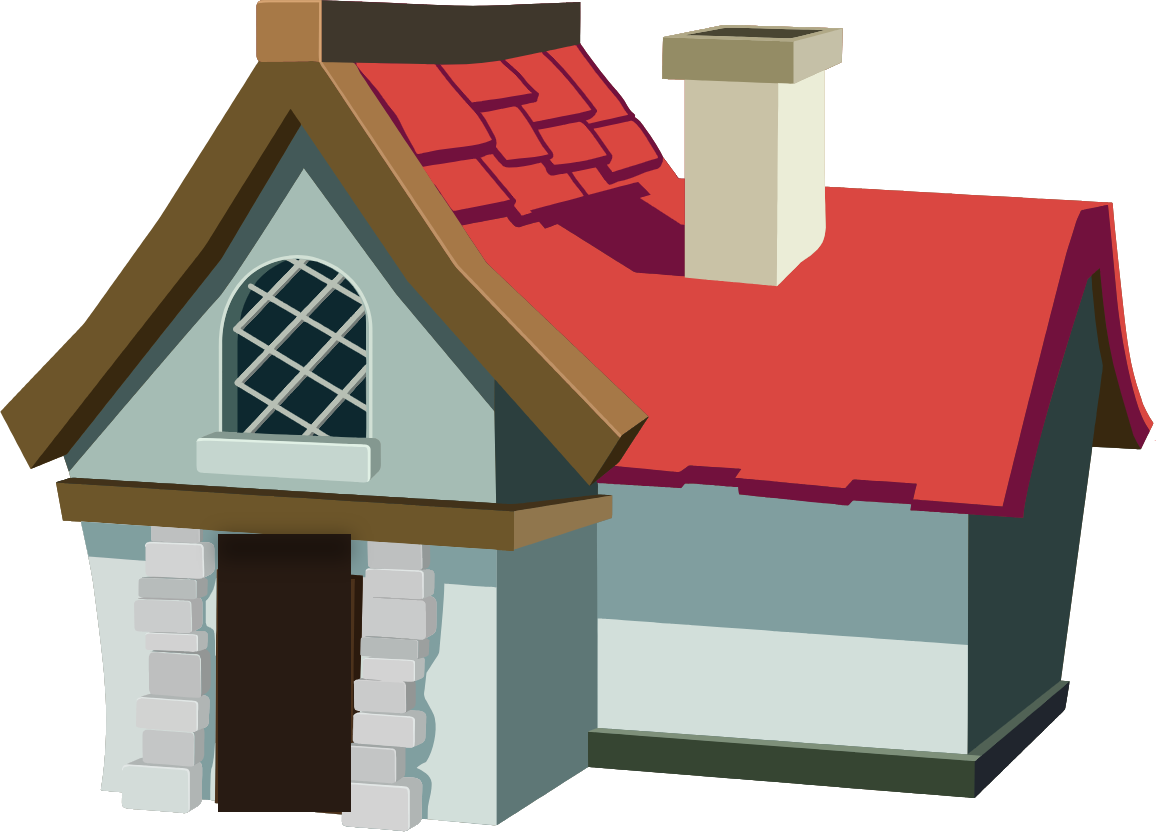
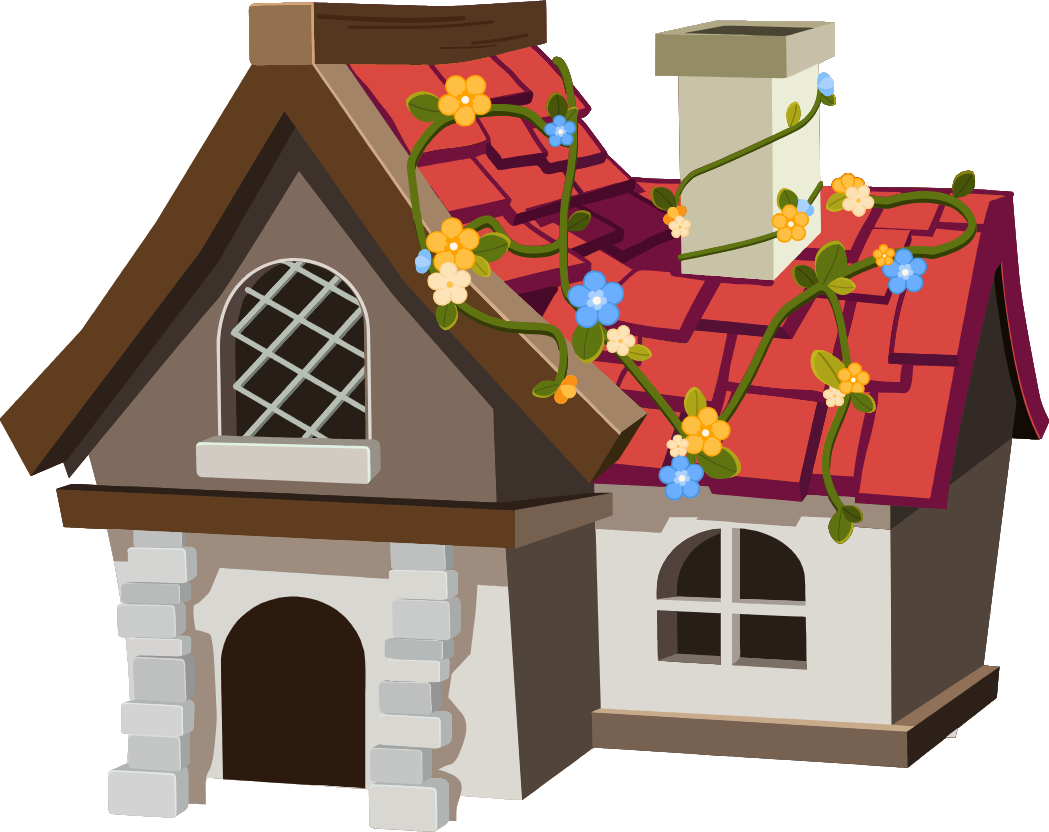
feat: 완성된 집 최종본 · 바탕을 밝게 · 파랑을 하늘색으로
집 — 디자이너의 최종 SVG(6391x4521)를 1049x832 로 굽고 다듬었다.
입구가 빈 아치라 문을 따로 오릴 필요가 없다. 디자이너가 그린 그 문을
입구에 그대로 끼운다 — 옛 집과 같은 스프라이트, 같은 방식이다.

새 집은 옛 돔보다 좁고(가로세로비 1.261 대 1.388) 조금 높다. 땅선은
옛 집 그대로 두고 높이만 돔 꼭대기까지 올려, 돔이 새 지붕 위로
삐져나오지 않게 했다. 그래도 왼쪽 처마 아래로 돔의 밑동이 드러나
그 자리를 숲·잔디로 되돌리는 조각을 하나 더 깔았다. 집 모양에 맞춰
덧대면 집을 바꿀 때마다 다시 재야 하기 때문이다.

색 — 바탕 #FFF6E8 -> #FFFBF2, 카드 면 #FCEABC -> #FEF2D5 로 한 단
올렸다. 파랑은 211도에서 203도로 돌렸는데, 글씨가 얹히는 --brand 는
대비를 지켜야 해 하늘색으로 다 갈 수 없다 — 흰 글씨 4.73:1, 바탕 위
4.58:1(지금과 같다)을 유지하는 #0B78BD 까지만 돌리고, 글씨가 안
얹히는 면(배분 막대)은 --brand-soft #57B4E8 로 실제 하늘색을 맡겼다.

diff --git a/public/css/scene.css b/public/css/scene.css
@@ -195,12 +195,12 @@ body.show-map .label{opacity:1;transform:translateY(0)}
 
 /* ─────────────────── 목표가 정해진 뒤의 집 ───────────────────
    옛 집(나뭇가지 돔)은 '아직 짓는 중'이고, 목표를 정하면 완성된 집이 된다.
-   가로세로비가 1.389 로 옛 집(1.388)과 사실상 같아 같은 자리에 그대로
-   덮인다.
+   옛 돔보다 좁고(가로세로비 1.261 대 1.388) 조금 높다. 땅선은 옛 집
+   그대로 두고, 높이만 돔 꼭대기까지 올려 돔이 새 지붕 위로 삐져나오지
+   않게 했다.
 
-   문은 이 집의 문을 따로 오려 왼쪽 경첩으로 돌린다. 스프라이트 문은
-   아치형이라 이 집의 사각 문틀에 넣으면 모서리가 뜬다 — 그래서 목표가
-   정해지면 스프라이트 문은 숨기고 이 문짝이 대신 열린다. */
+   이 집의 입구는 빈 아치다. 디자이너가 그린 그 문을 입구에 그대로 끼운다
+   — 옛 집과 같은 스프라이트, 같은 방식이다. */
 .housefx{
   position:absolute;inset:0;pointer-events:none;z-index:11;display:none;
   perspective:1500px;perspective-origin:50% 46%
@@ -209,9 +209,16 @@ body[data-goal="y"] .housefx{display:block}
 body[data-goal="y"] .doorfx{display:none}
 
 .hs-body{
-  position:absolute;left:52.60%;top:26.97%;width:38.60%;height:47.23%;
+  position:absolute;left:52.60%;top:25.80%;width:35.90%;height:48.40%;
   display:block;
   filter:drop-shadow(0 6px 10px rgba(24,38,22,.34))
+}
+/* 새 집은 옛 돔보다 좁아 왼쪽 처마 아래로 돔의 밑동이 드러난다.
+   집 모양에 맞춰 덧대면 집을 바꿀 때마다 다시 재야 하므로, 그 자리를
+   숲·잔디로 되돌리는 조각을 집 밑에 깔았다. */
+.hs-left{
+  position:absolute;left:52.11%;top:25.99%;width:10.03%;height:51.14%;
+  display:block
 }
 /* 옛 집에 딸린 세간(랜턴 기둥·울타리·장작더미)을 덮는다. 배경 그림은
    목표 전 화면과 같은 파일이라 지울 수 없어, 이 상태에서만 덮는다. */
@@ -226,12 +233,11 @@ body[data-goal="y"] .doorfx{display:none}
   display:block
 }
 
-/* 문 — 디자이너가 그린 그 문을 이 집의 문틀에 넣는다.
-   문틀(133x278)과 문짝(300x289)의 비율이 달라 문틀에 맞춰 눌렀다.
-   아치 모양은 남아 돌문처럼 읽힌다.
-   문은 바깥으로 열리므로 열린 문짝은 문틀 밖 — 집 앞 — 으로 나온다. */
+/* 문 — 빈 아치 입구(집 그림의 21.1%, 71.8% 자리)에 쉬는 프레임을 맞췄다.
+   창은 한 칸 크기다. 문은 바깥으로 열리므로 열린 문짝은 입구 밖 —
+   집 앞 — 으로 나온다. */
 .hs-door{
-  position:absolute;left:59.88%;top:56.24%;width:4.74%;height:19.00%;
+  position:absolute;left:60.17%;top:59.80%;width:5.26%;height:13.38%;
   display:block;overflow:hidden
 }
 .hs-leaf{
@@ -244,9 +250,9 @@ body[data-goal="y"] .doorfx{display:none}
 
 /* 집이 바뀌면 클릭 판정도 바뀌어야 한다. 옛 집은 돔, 새 집은 박공 지붕이라
    모양이 다르다 — 그대로 두면 지붕 위 빈 하늘이 눌린다. */
-body[data-goal="y"] .h-house{clip-path:polygon(52.63% 50.25%, 55.17% 45.70%, 58.34% 38.21%, 60.88% 31.34%, 61.52% 26.97%, 71.66% 27.09%, 72.30% 30.26%, 74.20% 34.41%, 74.84% 29.02%, 76.74% 28.39%, 80.55% 28.56%, 81.18% 37.65%, 89.43% 38.44%, 91.06% 51.10%, 90.43% 52.40%, 89.16% 52.29%, 87.90% 67.62%, 85.36% 71.87%, 84.72% 72.16%, 72.67% 70.51%, 68.86% 73.75%, 65.06% 73.97%, 63.79% 73.12%, 59.34% 72.33%, 58.71% 73.12%, 56.81% 72.84%, 56.17% 71.82%, 55.54% 58.65%, 54.27% 53.08%, 53.63% 53.54%, 53.00% 51.61%)}
+body[data-goal="y"] .h-house{clip-path:polygon(52.60% 50.12%, 55.51% 44.65%, 57.84% 38.95%, 60.75% 30.80%, 61.33% 25.97%, 71.22% 25.80%, 72.97% 33.71%, 74.13% 35.98%, 74.71% 36.15%, 75.29% 27.66%, 77.04% 27.02%, 81.11% 27.08%, 81.69% 35.86%, 82.28% 36.62%, 84.60% 36.74%, 85.77% 35.69%, 86.35% 36.85%, 86.93% 36.91%, 88.47% 50.41%, 87.89% 51.34%, 87.31% 51.28%, 86.72% 66.05%, 83.82% 70.19%, 72.76% 69.43%, 70.43% 72.28%, 68.69% 72.10%, 67.52% 74.08%, 65.78% 73.97%, 65.20% 71.70%, 59.96% 71.06%, 58.79% 73.04%, 56.47% 73.10%, 55.89% 56.51%, 54.72% 56.17%, 54.14% 53.08%, 53.56% 53.26%, 52.98% 51.39%)}
 body[data-goal="y"] .h-door{
-  clip-path:inset(57.28% 35.68% 26.94% 59.88% round 4px)
+  clip-path:inset(60.53% 34.91% 28.36% 60.17% round 4px)
 }
 
 /* ───────────────────────── 살아 있는 것들 ─────────────────────────

diff --git a/public/css/app.css b/public/css/app.css
@@ -16,11 +16,11 @@
 
 :root{
   /* ── 바탕 — Apricot Ice / Sun Drenched ──────────────────── */
-  --bg:#FFF6E8;            /* Apricot Ice — 팔레트에서 가장 밝은 색 */
+  --bg:#FFFBF2;            /* Apricot Ice 를 한 단 더 올린 값 */
   --card:#FFFFFF;
   --bd:#F5E6C9;            /* 기본 테두리 — Sun Drenched 를 옅게 */
   --bd-2:#EDD6A6;          /* 강조 테두리 — Sun Drenched */
-  --fill:#FCEABC;          /* Sun Drenched — 카드 안 보조 영역 */
+  --fill:#FEF2D5;          /* Sun Drenched 를 옅게 — 카드 안 보조 영역 */
 
   /* ── 글자 — 살구빛 바탕에 얹히는 따뜻한 잉크 ─────────────
      팔레트에 어두운 색이 없어 주황 계열을 끝까지 내려 만들었다. */
@@ -31,9 +31,13 @@
 
   /* ── 브랜드 — Apocyan 을 내린 파랑 ────────────────────────
      '청사진'이 곧 도면이다. 링크·진행·핵심 수치에만 쓴다.
-     Apocyan(#95CAFC) 은 흰 글씨가 안 읽혀 버튼용으로 어둡게 내린다. */
-  --brand:#2472C4;
-  --brand-deep:#1A5896;
+     Apocyan(#95CAFC) 은 흰 글씨가 안 읽혀 버튼용으로 어둡게 내린다.
+     글씨가 얹히는 값(--brand)은 대비를 지켜야 해 하늘색으로 다 갈 수
+     없다 — 흰 글씨 4.73:1, 바탕 위 4.58:1 을 유지하는 선까지만 돌렸다.
+     면에만 쓰는 --brand-soft 가 실제 하늘색을 맡는다. */
+  --brand:#0B78BD;         /* 하늘 쪽으로 돌린 파랑 — 211° → 203° */
+  --brand-deep:#095E96;
+  --brand-soft:#57B4E8;    /* 글씨가 안 얹히는 면(막대·진행)용 하늘색 */
   --brand-weak:#EAF4FF;
   --brand-bd:#B5D8FF;      /* Azure Sky — 팔레트 그대로 */
 

diff --git a/public/js/app.js b/public/js/app.js
@@ -927,7 +927,7 @@ function viewStep3(v) {
             <div style="font-size:11.5px;color:var(--muted);margin-top:4px">
               주식 ${(a.stock * 100).toFixed(0)}% · 채권 ${(a.bond * 100).toFixed(0)}% · 현금 ${(a.cash * 100).toFixed(0)}%</div>
             <div class="bar" style="height:7px;margin:9px 0;display:flex;background:var(--bd)">
-              ${bar(a.stock, 'var(--brand)')}${bar(a.bond, 'var(--ok)')}${bar(a.cash, 'var(--muted2)')}
+              ${bar(a.stock, 'var(--brand-soft)')}${bar(a.bond, 'var(--ok)')}${bar(a.cash, 'var(--muted2)')}
             </div>
             <div style="display:flex;justify-content:space-between;font-size:12px;margin-top:8px">
               <span style="color:var(--muted)">기준 경로</span><b class="num">${num(base.goalAssets)}원</b></div>

diff --git a/public/index.html b/public/index.html
@@ -97,6 +97,7 @@
            문은 이 집의 문을 따로 오려 경첩으로 돌린다 — 애니메이션 문은
            아치형이라 이 집의 사각 문틀에 맞지 않는다. -->
       <div class="housefx" aria-hidden="true">
+        <img class="hs-left" src="./img/left_patch.png" alt="">
         <img class="hs-yard" src="./img/yard_patch.png" alt="">
         <img class="hs-roof" src="./img/roof_patch.png" alt="">
         <img class="hs-body" src="./img/house_body.png" alt="">
